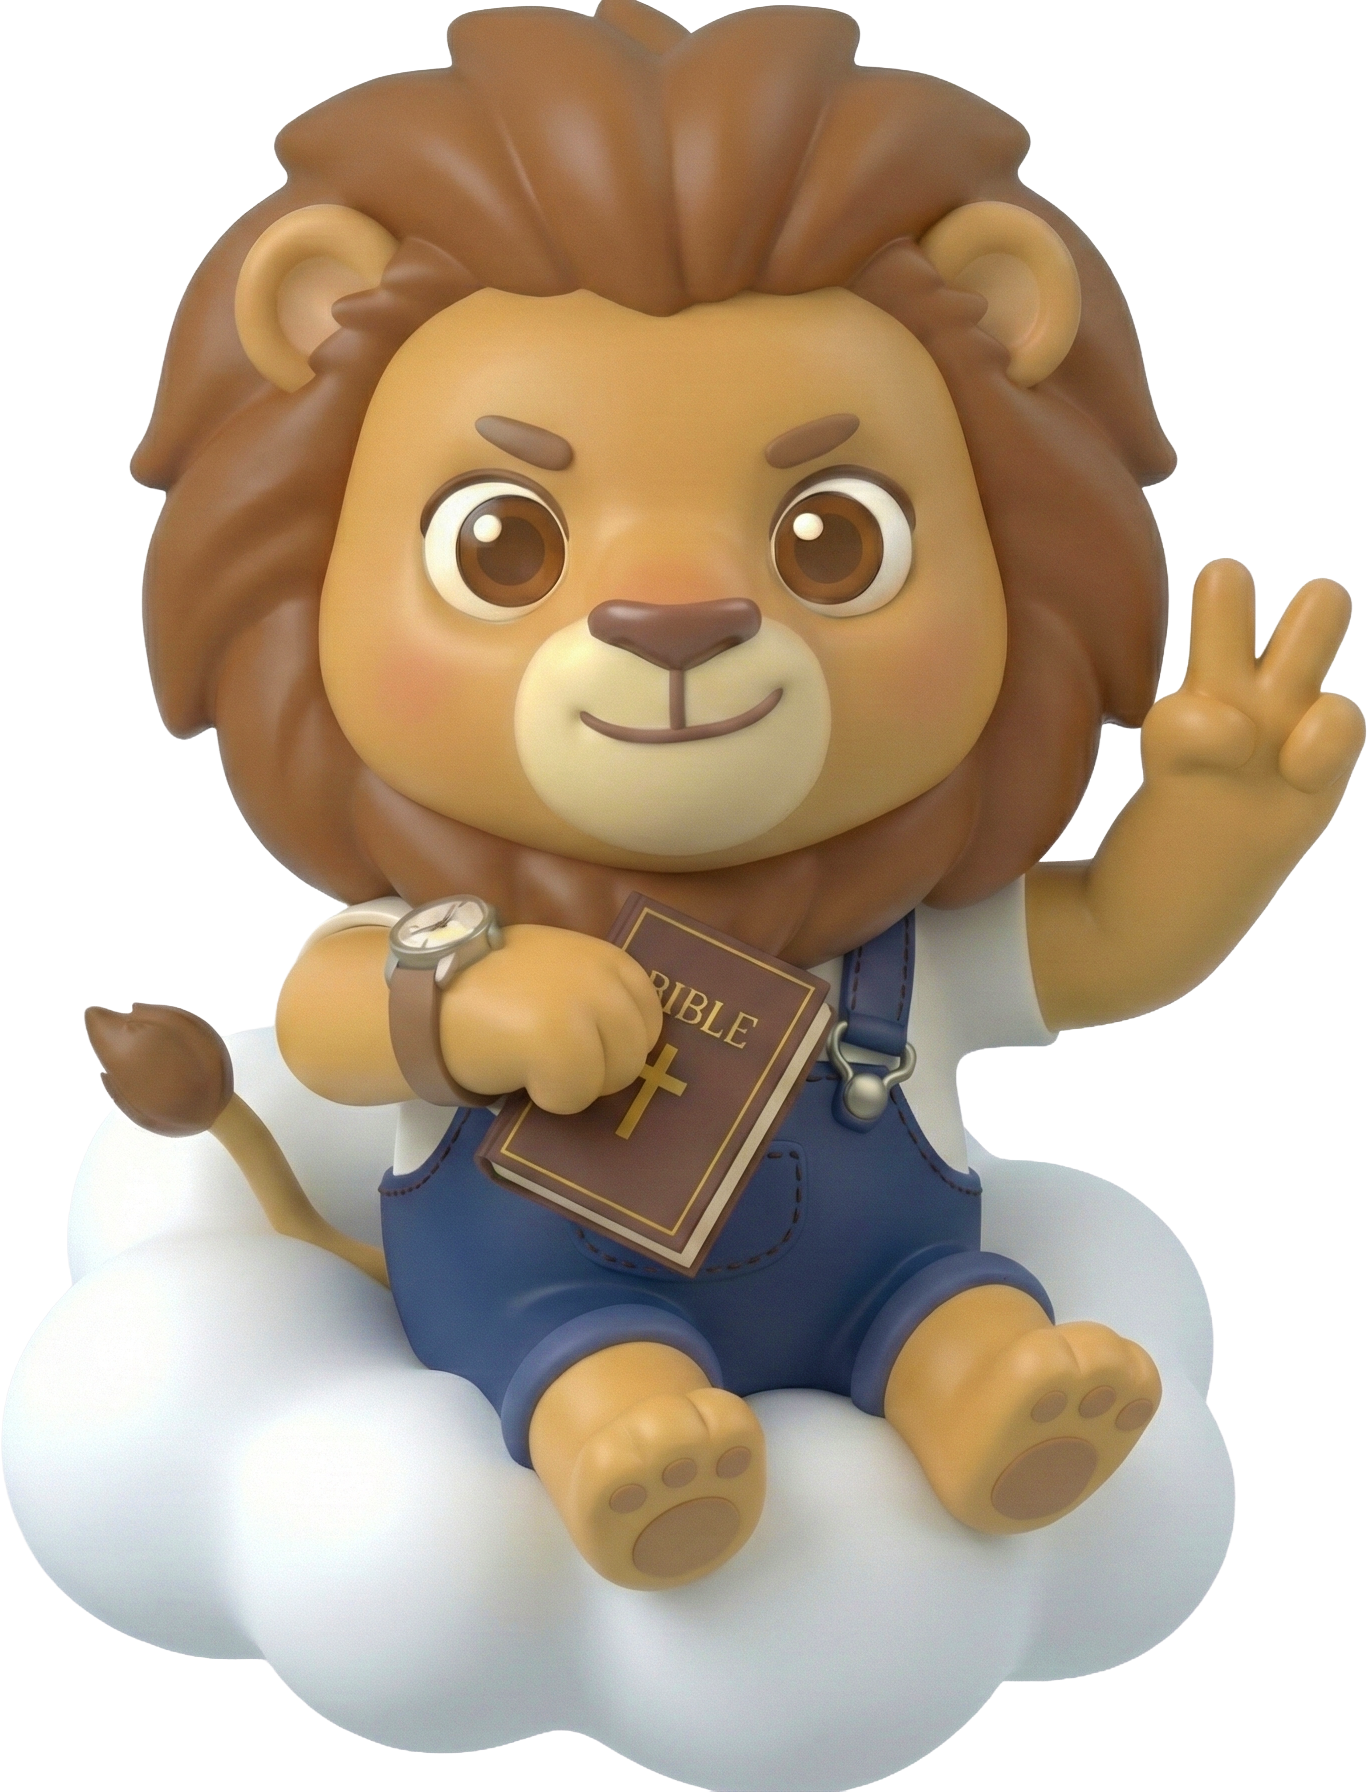
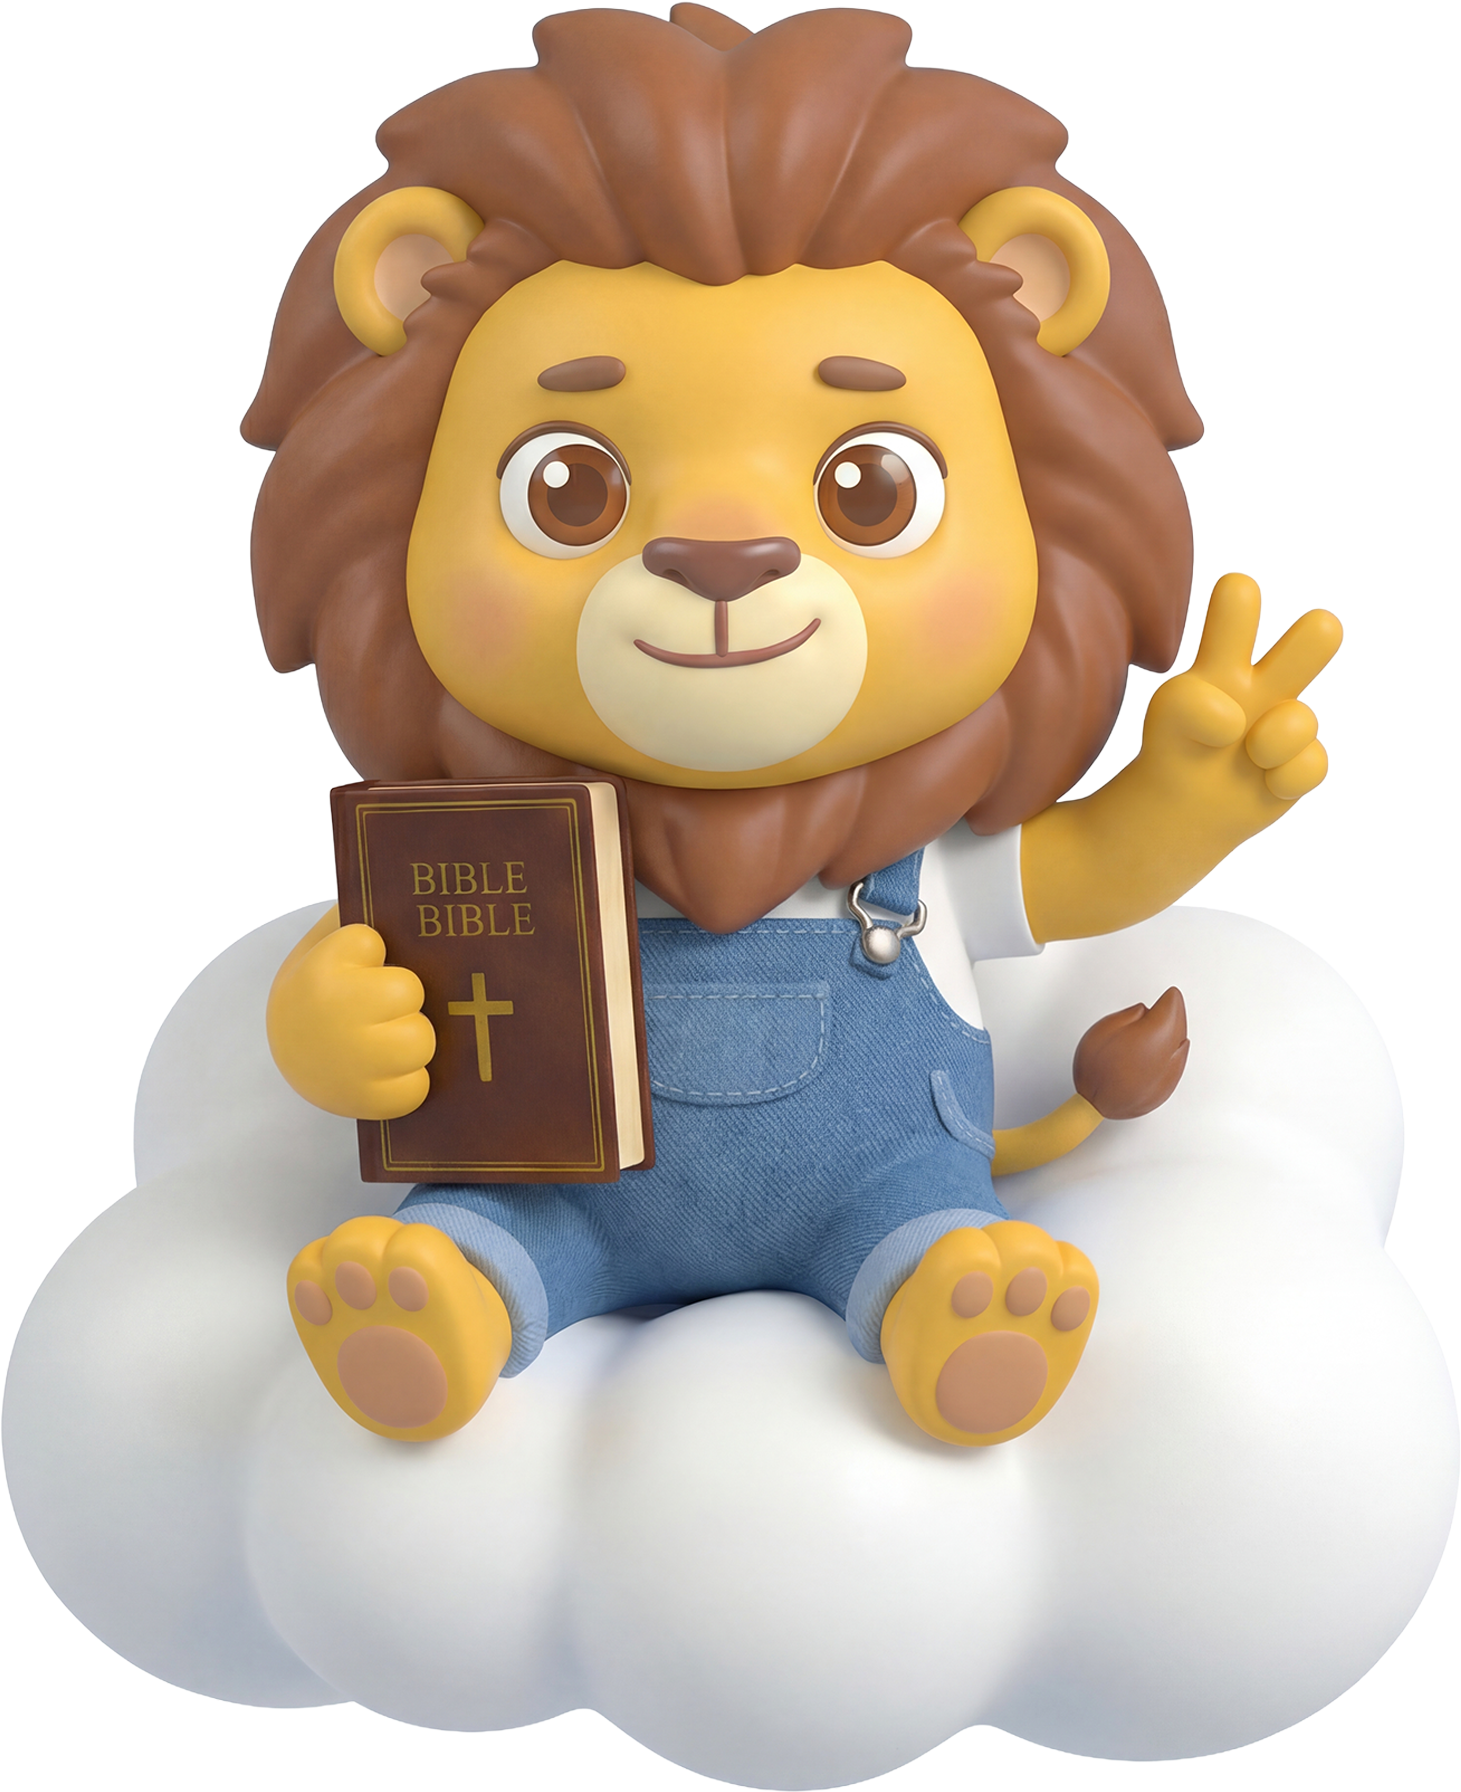
메인 페이지 초안

diff --git a/src/components/BalloonBackground.jsx b/src/components/BalloonBackground.jsx
@@ -1,0 +1,113 @@
+import React from 'react';
+import { motion } from 'framer-motion';
+
+// Import Balloon Images
+import bloom01 from '../assets/main/bloom_01.png';
+import bloom02 from '../assets/main/bloom_02.png';
+import bloom03 from '../assets/main/bloom_03.png';
+import bloom04 from '../assets/main/bloom_04.png';
+
+// Define balloons outside to prevent re-creation and random value shifts on re-renders
+// Use negative delays to "pre-warm" the animation so balloons are already mid-flight
+const balloons = [
+    // height: 100~250px.
+    // zIndex: Small(Far) = 1, Medium = 3, Large(Near) = 5
+    { id: 1, src: bloom01, left: '2%', delay: -5, height: 250, blur: 0, duration: 22, xSway: 20, zIndex: 5 },
+    { id: 2, src: bloom02, left: '12%', delay: -12, height: 100, blur: 4, duration: 24, xSway: 25, zIndex: 1 },
+    { id: 3, src: bloom03, left: '25%', delay: -2, height: 220, blur: 0.5, duration: 21, xSway: 15, zIndex: 5 },
+    { id: 4, src: bloom04, left: '38%', delay: -18, height: 120, blur: 3, duration: 25, xSway: 30, zIndex: 1 },
+    { id: 5, src: bloom01, left: '45%', delay: -8, height: 180, blur: 1, duration: 23, xSway: 22, zIndex: 3 },
+    { id: 6, src: bloom02, left: '58%', delay: -15, height: 240, blur: 0, duration: 20, xSway: 18, zIndex: 5 },
+    { id: 7, src: bloom03, left: '70%', delay: -3, height: 140, blur: 2.5, duration: 26, xSway: 28, zIndex: 1 },
+    { id: 8, src: bloom04, left: '82%', delay: -20, height: 200, blur: 1, duration: 22, xSway: 24, zIndex: 3 },
+    { id: 9, src: bloom01, left: '90%', delay: -10, height: 110, blur: 3.5, duration: 24, xSway: 20, zIndex: 1 },
+    { id: 10, src: bloom02, left: '96%', delay: -6, height: 230, blur: 0, duration: 21, xSway: 15, zIndex: 5 },
+    { id: 11, src: bloom01, left: '5%', delay: -25, height: 130, blur: 2.8, duration: 27, xSway: 22, zIndex: 1 },
+    { id: 12, src: bloom03, left: '50%', delay: -22, height: 160, blur: 1.5, duration: 25, xSway: 19, zIndex: 3 },
+];
+
+const BalloonImage = ({ src, delay, left, height, blur, duration, xSway, zIndex }) => {
+    return (
+        <motion.img
+            src={src}
+            alt="Balloon"
+            initial={{ y: 0, opacity: 0, x: 0 }}
+            animate={{
+                // Travel from site bottom (approx 100%) upwards.
+                // Needs to cross Footer + Newcomer + EventSection (~2000px?).
+                // -250vh should be sufficient to reach the Event Section and fade out.
+                y: [0, '-250vh'],
+                opacity: [0, 1, 1, 0],
+                x: [0, xSway, -xSway, 0],
+            }}
+            transition={{
+                y: {
+                    duration: duration,
+                    delay: delay,
+                    ease: "linear",
+                    repeat: Infinity,
+                    repeatType: "loop"
+                },
+                opacity: {
+                    duration: duration,
+                    delay: delay,
+                    times: [0, 0.1, 0.9, 1],
+                    repeat: Infinity,
+                    repeatType: "loop"
+                },
+                x: {
+                    duration: 5 + Math.random() * 3,
+                    repeat: Infinity,
+                    repeatType: "mirror",
+                    ease: "easeInOut"
+                }
+            }}
+            style={{
+                position: 'absolute',
+                top: '99%', // Start at the very bottom of the entire page
+                left: left,
+                width: 'auto',
+                height: `${height}px`,
+                filter: `blur(${blur}px)`,
+                zIndex: zIndex,
+                pointerEvents: 'none',
+                willChange: 'transform, opacity'
+            }}
+        />
+    );
+};
+
+const BalloonBackground = () => {
+    // "Global Background" but physically attached to the page (Absolute), not the screen (Fixed).
+    // This ensures balloons stay at the bottom of the content and scroll WITH the page.
+    const containerStyle = {
+        position: 'absolute',
+        top: 0,
+        left: 0,
+        width: '100%',
+        height: '100%', // Cover the entire app height
+        overflow: 'hidden',
+        pointerEvents: 'none',
+        zIndex: 0
+    };
+
+    return (
+        <div style={containerStyle}>
+            {balloons.map((b) => (
+                <BalloonImage
+                    key={b.id}
+                    src={b.src}
+                    delay={b.delay}
+                    left={b.left}
+                    height={b.height}
+                    blur={b.blur}
+                    duration={b.duration}
+                    xSway={b.xSway}
+                    zIndex={b.zIndex}
+                />
+            ))}
+        </div>
+    );
+};
+
+export default BalloonBackground;

diff --git a/src/components/WaveLogoLoader.jsx b/src/components/WaveLogoLoader.jsx
@@ -1,0 +1,59 @@
+import React from 'react';
+import logoSbc from '../assets/logo_sbc.svg';
+
+const WaveLogoLoader = ({ progress }) => {
+    // Robust "Two Image" approach for wave fill effect
+    // 1. Background Image: Faint Opacity (Base)
+    // 2. Foreground Image: Full Opacity, cropped by parent container height
+
+    return (
+        <div style={{ position: 'relative', width: '300px', height: '100px' }}>
+            {/* 1. Base Logo (Faint) */}
+            <img
+                src={logoSbc}
+                alt="Loading Base"
+                style={{
+                    position: 'absolute',
+                    top: 0,
+                    left: 0,
+                    width: '100%',
+                    height: '100%',
+                    objectFit: 'contain',
+                    opacity: 0.3
+                }}
+            />
+
+            {/* 2. Wave/Fill Mask Container */}
+            <div style={{
+                position: 'absolute',
+                bottom: 0, // Fill from bottom
+                left: 0,
+                width: '100%',
+                height: `${progress}%`, // Height controls the "fill" level
+                overflow: 'hidden', // Crops the image inside
+                overflow: 'hidden', // Crops the image inside
+                // transition: 'height 0.1s linear' // REMOVED: JS updates drive animation directly for better smoothness
+            }}>
+                {/* Foreground Logo (Full Brightness) */}
+                {/* Positioned at bottom so it stays anchored as container grows */}
+                <img
+                    src={logoSbc}
+                    alt="Loading Fill"
+                    style={{
+                        position: 'absolute',
+                        bottom: 0,
+                        left: 0,
+                        width: '100%',
+                        // Key: Height must match the ROOT container height (100px) 
+                        // to ensure the image scale stays constant while cropping.
+                        height: '100px',
+                        objectFit: 'contain',
+                        maxWidth: '300px' // Match root width
+                    }}
+                />
+            </div>
+        </div>
+    );
+};
+
+export default WaveLogoLoader;

diff --git a/src/components/LoadingScreen.jsx b/src/components/LoadingScreen.jsx
@@ -1,0 +1,33 @@
+import React from 'react';
+import WaveLogoLoader from './WaveLogoLoader';
+
+const LoadingScreen = ({ progress, animationState }) => {
+    // Define styles based on state
+    const isExpanding = animationState === 'expanding';
+    const isDone = animationState === 'done';
+
+    const containerStyle = {
+        position: 'fixed',
+        top: 0,
+        left: 0,
+        width: '100%',
+        height: '100vh',
+        zIndex: 9999, // Place above everything
+        display: 'flex',
+        justifyContent: 'center',
+        alignItems: 'center',
+        overflow: 'hidden',
+        backgroundColor: '#005394', // Keep Blue, no white flash
+        opacity: (isExpanding || isDone) ? 0 : 1, // Fade out immediately when expanding starts
+        pointerEvents: (isExpanding || isDone) ? 'none' : 'auto', // Pass through
+        transition: 'opacity 1s ease-out', // Smooth fade out
+    };
+
+    return (
+        <div style={containerStyle} className="loading-screen-root">
+            <WaveLogoLoader progress={progress} />
+        </div>
+    );
+};
+
+export default LoadingScreen;

diff --git a/src/components/ServiceInfoSection.jsx b/src/components/ServiceInfoSection.jsx
@@ -1,5 +1,5 @@
 import React from 'react';
-import lionWorship from '../assets/main/lion_worship.png';
+import lionWorship from '../assets/main/lamb_worship.png';
 import { BlurFade } from './ui/BlurFade';
 import { motion } from 'framer-motion';
 

diff --git a/src/components/Header.jsx b/src/components/Header.jsx
@@ -1,5 +1,5 @@
 import React from 'react';
-import logoSbc from '../assets/logo_sbc.png';
+import logoSbc from '../assets/logo_sbc.svg';
 import '../index.css';
 
 const Header = () => {
